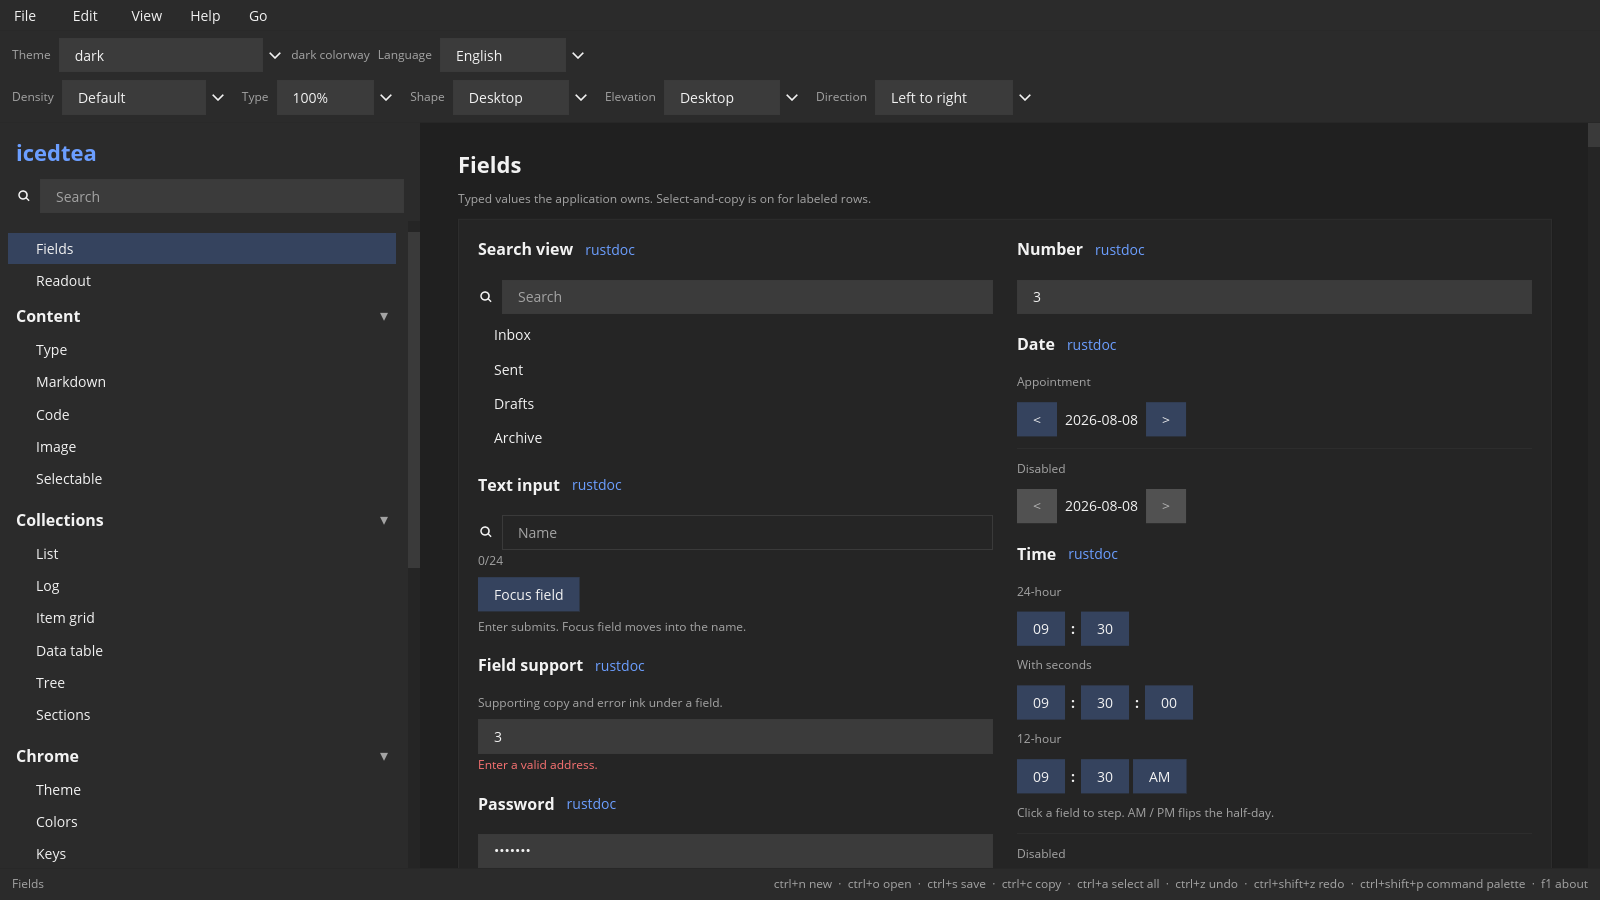
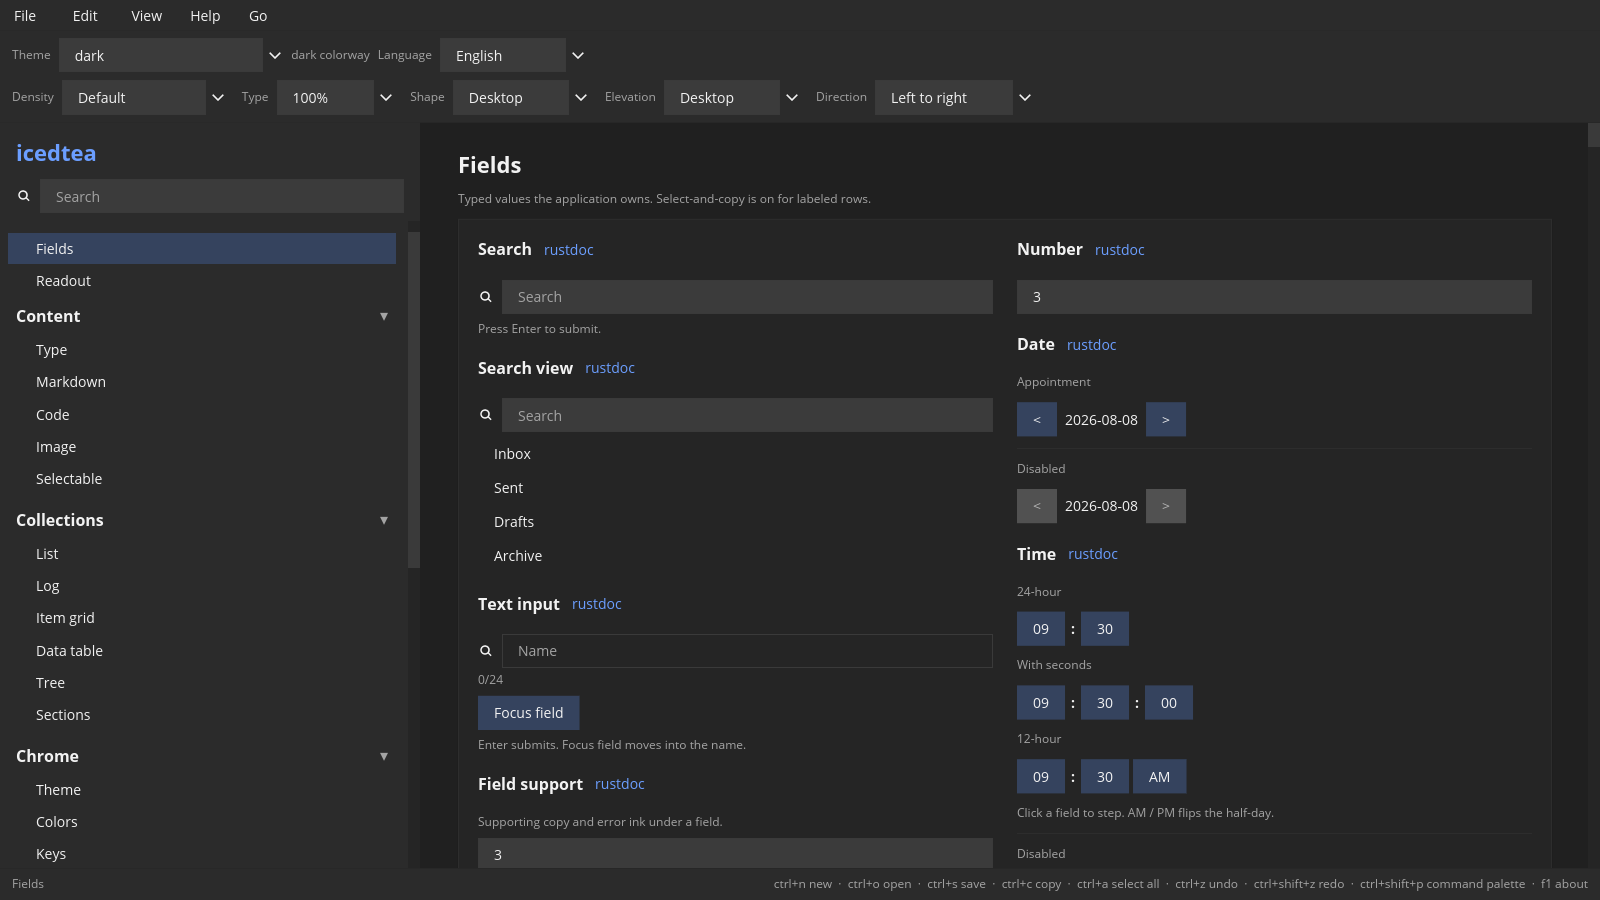
Show search submit and wrap-off in the gallery tour
Search sits first on Fields. Inject submits the query. A code extra
beat turns wrap off so a long line stays on one row. Recapture the
tour GIF and handbook stills.

diff --git a/icedtea-gallery/src/main.rs b/icedtea-gallery/src/main.rs
@@ -846,6 +846,14 @@ fn tour_len() -> usize {
 
 fn extras_after(page: &str) -> &'static [TourBeat] {
     match page {
+        "code" => &[TourBeat {
+            page: "code",
+            theme: "dark",
+            appearance: Appearance::Dark,
+            caption: "Code: wrap off",
+            act: "code-wrap false\n",
+            hold_ms: 120,
+        }],
         "motion" => &[
             TourBeat {
                 page: "motion",
@@ -885,7 +893,7 @@ fn extras_after(page: &str) -> &'static [TourBeat] {
 }
 
 fn extra_beat_count() -> usize {
-    extras_after("motion").len() + extras_after("expand-motion").len()
+    extras_after("code").len() + extras_after("motion").len() + extras_after("expand-motion").len()
 }
 
 fn theme_page_index() -> usize {
@@ -1083,6 +1091,8 @@ fn parse_inject_line(line: &str) -> Option<Message> {
         "sort" => Some(Message::Sort(parts.next()?.parse().ok()?)),
         "group" => Some(Message::GroupPress(parts.next()?.parse().ok()?)),
         "query" => Some(Message::Query(parts.next()?.to_string())),
+        "search-go" | "search_go" => Some(Message::SearchGo),
+        "code-wrap" | "code_wrap" => Some(Message::CodeWrap(parts.next()? == "true")),
         "pick" => Some(Message::SearchPick(parts.next()?.parse().ok()?)),
         "rail" => Some(Message::Rail(parts.next()?.parse().ok()?)),
         _ => None,
@@ -7256,12 +7266,17 @@ mod tests {
     fn tour_log_and_grid_are_distinct_beats() {
         let pages = icedtea::catalog::pages();
         let log_i = pages.iter().position(|p| *p == "log").unwrap();
-        let grid_i = pages.iter().position(|p| *p == "grid").unwrap();
         assert!(log_i < super::theme_page_index());
-        assert_eq!(super::tour_beat(log_i).page, "log");
-        assert!(super::tour_beat(log_i).caption.starts_with("Log:"));
-        assert_eq!(super::tour_beat(grid_i).page, "grid");
-        assert!(super::tour_beat(grid_i).caption.starts_with("Item grid:"));
+        let log = (0..super::tour_len())
+            .map(super::tour_beat)
+            .find(|b| b.page == "log")
+            .expect("log tour beat");
+        assert!(log.caption.starts_with("Log:"));
+        let grid = (0..super::tour_len())
+            .map(super::tour_beat)
+            .find(|b| b.page == "grid")
+            .expect("grid tour beat");
+        assert!(grid.caption.starts_with("Item grid:"));
     }
 
     #[test]
@@ -7290,7 +7305,9 @@ mod tests {
         let (mut g, _) = super::Gallery::new(icedtea::i18n::Direction::Ltr);
         g.apply_tour_beat(&super::tour_beat(0));
         assert_eq!(g.page, pages[0]);
-        let light_at = super::theme_page_index() + 1;
+        let light_at = (0..super::tour_len())
+            .position(|i| super::tour_beat(i).caption.starts_with("Light:"))
+            .expect("light tour beat");
         for _ in 0..light_at {
             let _ = g.update(super::Message::Tour);
         }
@@ -7619,6 +7636,14 @@ mod tests {
             Some(super::Message::Query(q)) if q == "in"
         ));
         assert!(matches!(
+            super::parse_inject_line("search-go"),
+            Some(super::Message::SearchGo)
+        ));
+        assert!(matches!(
+            super::parse_inject_line("code-wrap false"),
+            Some(super::Message::CodeWrap(false))
+        ));
+        assert!(matches!(
             super::parse_inject_line("pick 0"),
             Some(super::Message::SearchPick(0))
         ));
@@ -7664,7 +7689,9 @@ mod tests {
             "list 2",
             "expand true",
             "group 1",
-            "query in",
+            "query icedtea",
+            "search-go",
+            "code-wrap false",
             "pick 0",
             "rail 1",
         ] {
@@ -7676,7 +7703,9 @@ mod tests {
         assert!(g.on);
         assert_eq!(g.list_sel.primary(), Some(2));
         assert!(g.expander_open);
-        assert_eq!(g.query, "in");
+        assert_eq!(g.query, "icedtea");
+        assert_eq!(g.search_sent, "icedtea");
+        assert!(!g.code_wrap);
         assert_eq!(g.rail, 1);
         assert_eq!(g.note, "Rail 1");
     }

diff --git a/src/catalog.rs b/src/catalog.rs
@@ -46,7 +46,8 @@ pub const ENTRIES: &[Entry] = &[
     Entry { id: "checkbox-indeterminate", title: "Indeterminate checkbox", group: "Controls", page: "controls" },
     Entry { id: "split-button", title: "Split button", group: "Controls", page: "controls" },
     Entry { id: "toggle-button", title: "Toggle button", group: "Controls", page: "controls" },
-    // Search view first so docked hits are above the fold on Fields.
+    // Search first so Enter submit status is on the first screenful.
+    Entry { id: "search", title: "Search", group: "Fields", page: "fields" },
     Entry { id: "search-view", title: "Search view", group: "Fields", page: "fields" },
     Entry { id: "text-input", title: "Text input", group: "Fields", page: "fields" },
     Entry { id: "field-support", title: "Field support", group: "Fields", page: "fields" },
@@ -54,7 +55,6 @@ pub const ENTRIES: &[Entry] = &[
     Entry { id: "secret", title: "Secret field", group: "Fields", page: "fields" },
     Entry { id: "value-field", title: "Value field", group: "Fields", page: "fields" },
     Entry { id: "textarea", title: "Text area", group: "Fields", page: "fields" },
-    Entry { id: "search", title: "Search", group: "Fields", page: "fields" },
     Entry { id: "suggest", title: "Suggest", group: "Fields", page: "fields" },
     Entry { id: "select", title: "Select", group: "Fields", page: "fields" },
     Entry { id: "number", title: "Number", group: "Fields", page: "fields" },

diff --git a/icedtea-gallery/src/samples.rs b/icedtea-gallery/src/samples.rs
@@ -86,7 +86,7 @@ pub const CODE_LANGS: &[CodeLang] = &[
     CodeLang {
         name: "Rust",
         syntax: "rs",
-        source: "fn greet(name: &str) -> String {\n    format!(\"hello, {name}\")\n}\n\n#[cfg(test)]\nmod tests {\n    use super::*;\n    #[test]\n    fn greets() {\n        assert_eq!(greet(\"icedtea\"), \"hello, icedtea\");\n    }\n}\n",
+        source: "fn greet(name: &str) -> String {\n    format!(\"hello, {name}\")\n}\n\nconst LONG: &str = \"wrap-off keeps this entire assignment on one row: alpha beta gamma delta epsilon zeta eta theta iota kappa lambda mu nu xi omicron\";\n\n#[cfg(test)]\nmod tests {\n    use super::*;\n    #[test]\n    fn greets() {\n        assert_eq!(greet(\"icedtea\"), \"hello, icedtea\");\n    }\n}\n",
     },
     CodeLang {
         name: "Python",

diff --git a/scripts/gallery_qa.py b/scripts/gallery_qa.py
@@ -483,9 +483,15 @@ DEFAULT_INTERACT: list[dict[str, str]] = [
     },
     {
         "match": "fields:",
-        "name": "search-view-filter",
-        "script": "query in\n",
-        "expect": "search view hits filter to Inbox",
+        "name": "search-submit",
+        "script": "query icedtea\nsearch-go\n",
+        "expect": "search field submitted icedtea; status shows Submitted",
+    },
+    {
+        "match": "code:",
+        "name": "code-wrap-off",
+        "script": "code-wrap false\n",
+        "expect": "wrap off; long source line stays on one row",
     },
     {
         "match": "navigation stack",
